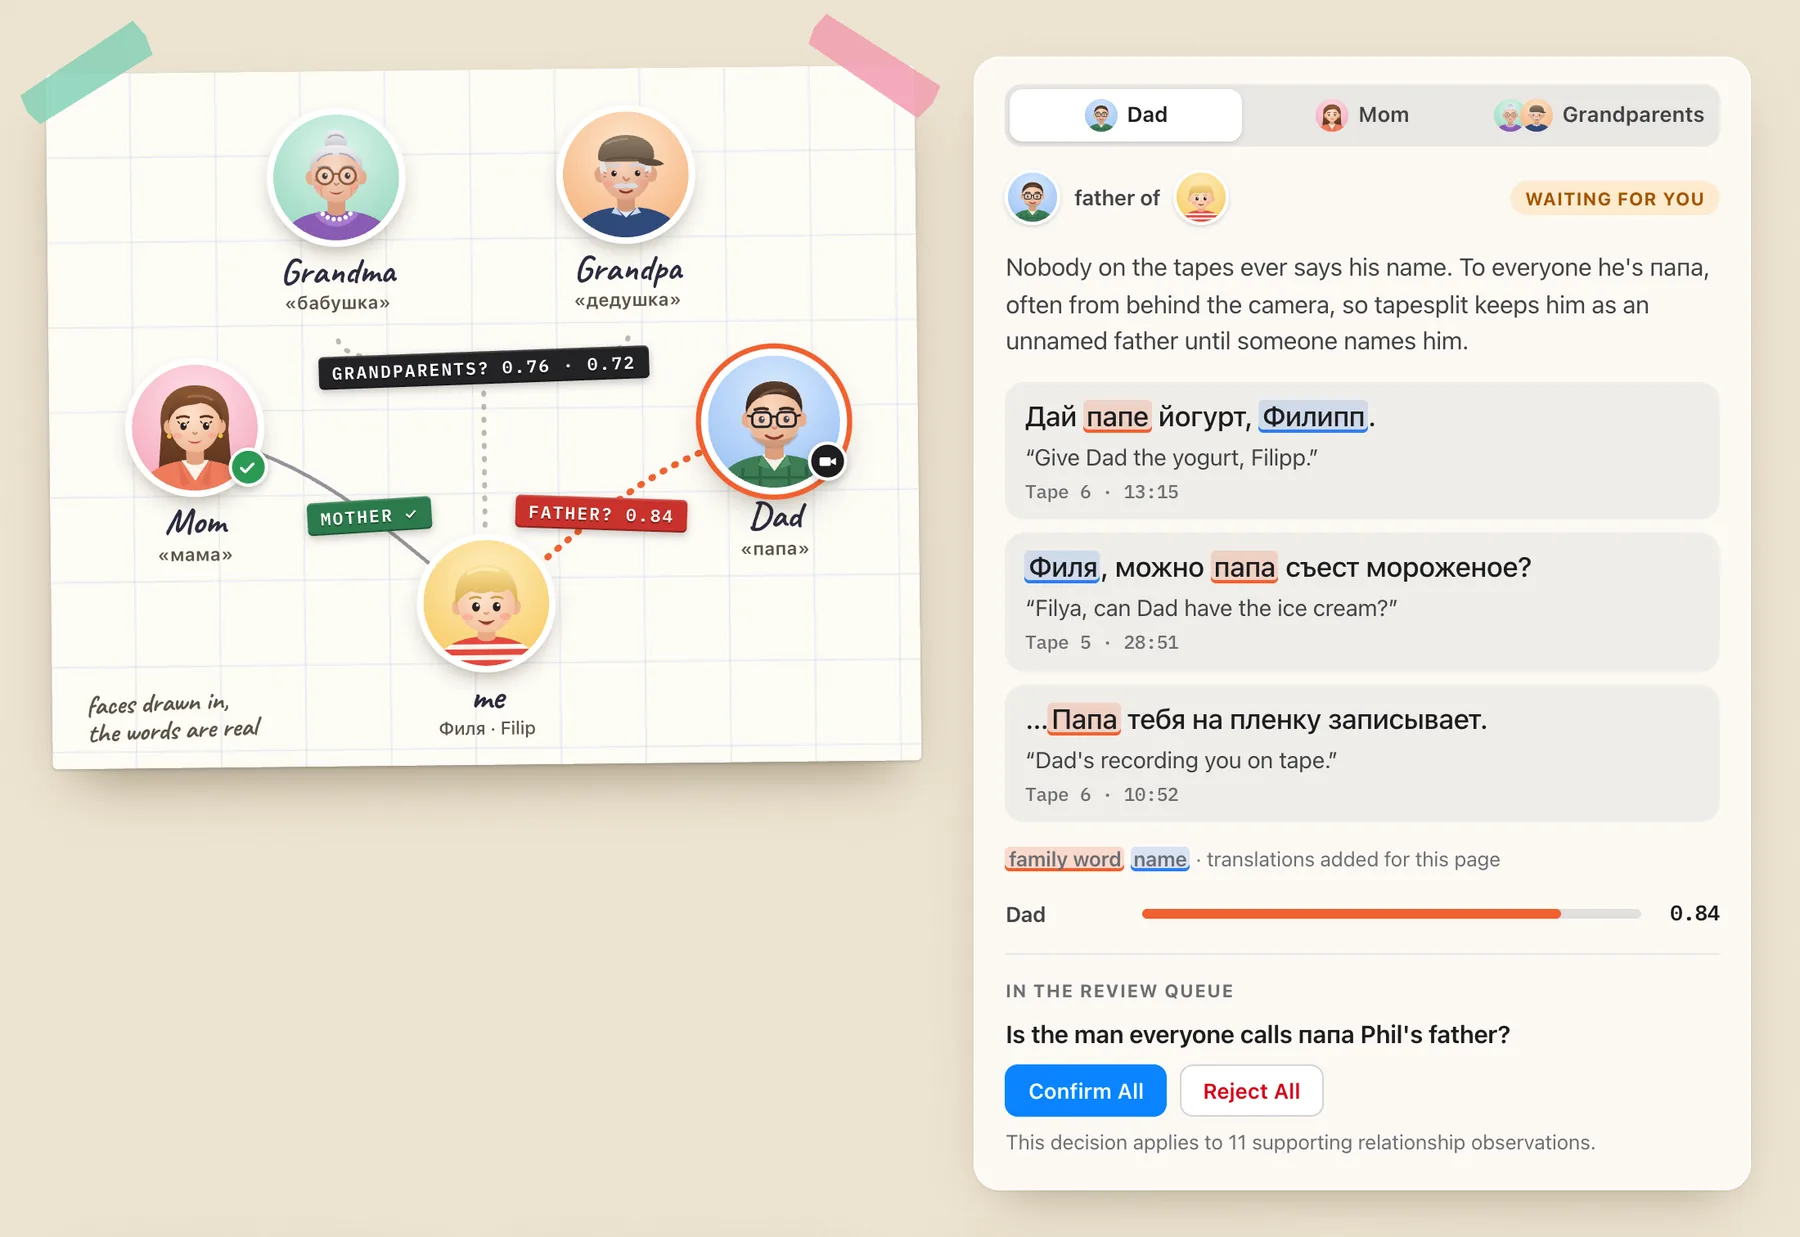
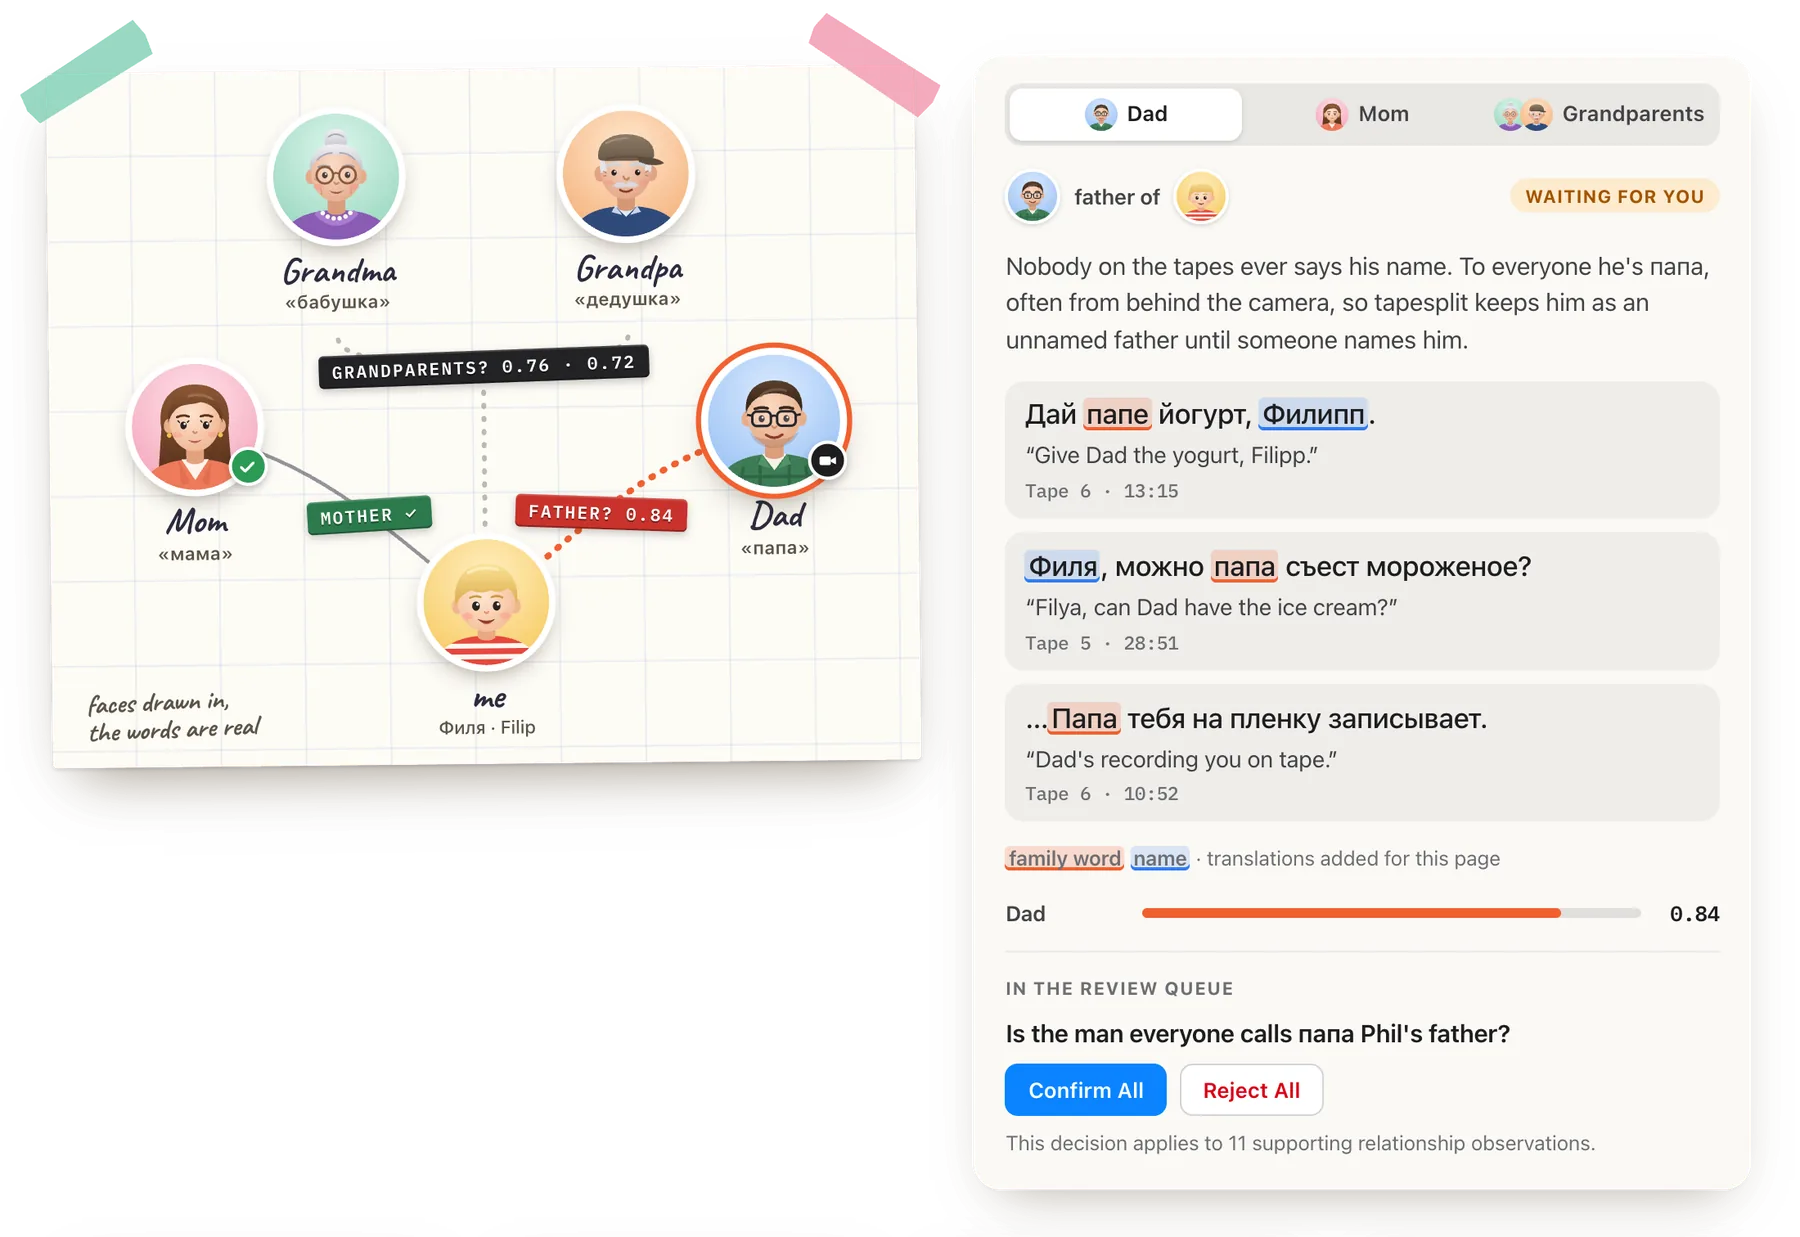
Give the README images transparent backgrounds
Every image in the README now has an alpha background instead of kraft paper,
so it sits cleanly on GitHub's light and dark themes. Cards are opaque, and
loose handwriting that would vanish on a dark page is hidden or set on a
paper label. The four polaroid clips are animated WebP with real alpha in
place of GIFs, which only have on/off transparency. The README also gets the
In/Out image, the new post title, Edison's real name and no French note.

diff --git a/README.md b/README.md
@@ -10,7 +10,7 @@
   <a href="docs/"><b>Docs</b></a>
 </p>
 
-<p align="center"><b>Read the story:</b> <a href="https://tapesplit.org/">My little VHS digitization project that turned into a palantír for home video</a></p>
+<p align="center"><b>Read the story:</b> <a href="https://tapesplit.org/">My little VHS digitization project that turned into a family archive</a></p>
 
 <p align="center">
   <a href="https://github.com/bindeman/tapesplit/actions/workflows/ci.yml"><img alt="CI" src="https://github.com/bindeman/tapesplit/actions/workflows/ci.yml/badge.svg"></a>
@@ -21,7 +21,11 @@
 
 **tapesplit turns a box of digitized VHS and camcorder tapes into a family archive you can browse, search and trust.** It watches every hour of footage, splits each tape into moments, and works out when each moment happened, where, and who was there. Anything it isn't sure about waits in a review queue. It runs on your Mac; cloud models are optional and capped at a dollar amount you set.
 
-> Every picture on this page is a real frame from my family's tapes (1997–2007), labeled by tapesplit. Names other than mine are changed.
+<p align="center">
+  <img src="site/media/readme/how-inout.webp" alt="In: a box of VHS tapes with no labels. tapesplit watches every minute. Out: 279 moments, each titled and dated; a timeline from 1997 to 2007 with 99 moments dated to the day; 244 places on a map; and 101 people, with a family tree" width="100%">
+</p>
+
+> Every photo on this page is a real frame from my family's tapes (1997–2007), labeled by tapesplit; the faces in the family tree are drawn. People's names other than mine are changed.
 
 ## Why I made this
 
@@ -36,10 +40,10 @@ For a decade those tapes sat in the attic. Last year I started a project to digi
 ## From the tapes
 
 <p align="center">
-  <img src="site/media/readme/weather.gif" alt="Polaroid: a grinning boy in a rain hood on a windy beach. Label: Oregon coast, 2006" width="24%">
-  <img src="site/media/readme/lava.gif" alt="Polaroid: lava glowing where it meets the ocean at dusk. Label: Kīlauea, Hawaiʻi, 2006" width="24%">
-  <img src="site/media/readme/bears.gif" alt="Polaroid: brown bears fishing along a river. Label: Katmai, Alaska, 2002" width="24%">
-  <img src="site/media/readme/stbasil.gif" alt="Polaroid: Saint Basil's Cathedral seen from a river boat. Label: Moscow, 2007" width="24%">
+  <img src="site/media/readme/weather.webp" alt="Polaroid: a grinning boy in a rain hood on a windy beach. Label: Oregon coast, 2006" width="24%">
+  <img src="site/media/readme/lava.webp" alt="Polaroid: lava glowing where it meets the ocean at dusk. Label: Kīlauea, Hawaiʻi, 2006" width="24%">
+  <img src="site/media/readme/bears.webp" alt="Polaroid: brown bears fishing along a river. Label: Katmai, Alaska, 2002" width="24%">
+  <img src="site/media/readme/stbasil.webp" alt="Polaroid: Saint Basil's Cathedral seen from a river boat. Label: Moscow, 2007" width="24%">
 </p>
 
 The captions are scrapbook notes. The label tape is tapesplit's: where each trip was and what year, worked out from what's on screen, what's said on tape and the camcorder's date stamp.
@@ -66,10 +70,10 @@ Tape 18 has no label either. An hour in, the camcorder's clock reads SEP 7 2005 
   <img src="site/media/readme/how-when.webp" alt="Two polaroids with yellow boxes where text was read: the date stamp SEP 7 2005 and a whiteboard saying Today is Wednesday, September 7, 2005, next to cards with the dates tapesplit took from them" width="100%">
 </p>
 
-**Where.** My dad says we're back in Eugene, and the sign over the doors says Maplewood School. A search for that name alone picked a school in Florida, with others in Utah and Arizona. None of those is anywhere we lived, so tapesplit flagged the match and searched again near home, and a separate verifier agreed the school belongs in Eugene.
+**Where.** My dad says we're back in Eugene, and the video model reads Edison School off the sign above the entrance. A search for that name alone picked a school in Florida, with others in Utah and Arizona. None of those is anywhere we lived, so tapesplit flagged the match and searched again near home, and a separate verifier agreed the school belongs in Eugene.
 
 <p align="center">
-  <img src="site/media/readme/how-where.webp" alt="Clue cards (two lines said on tape, two signs read off the screen) next to a map of the United States: the first search's Maplewood Schools in Florida, Utah and Arizona are grayed out, and the one found near home in Eugene, Oregon is kept, with confidence rising from 0.45 to 0.99" width="100%">
+  <img src="site/media/readme/how-where.webp" alt="Clue cards (two lines said on tape, two signs read off the screen) next to a map of the United States: the first search's Edison Schools in Florida, Utah and Arizona are grayed out, and the one found near home in Eugene, Oregon is kept, with confidence rising from 0.45 to 0.99" width="100%">
 </p>
 
 **Who.** Two voices, separated and lined up with their words: my dad asks me, in Russian, what I think of my first day, and I tell him I'm not scared. tapesplit suggests who's who; the names are mine.
@@ -99,7 +103,7 @@ Tape 18 has no label either. An hour in, the camcorder's clock reads SEP 7 2005 
 
 Tapes get reused and recorded over, so tape order isn't time order: Tape 3 jumps from 2003 to 2006. tapesplit dates each moment on its own. 99 of the 279 got an exact day: 29 confirmed by a camcorder stamp that Apple Vision read, and 75 from what the video model saw or heard in the moment. The rest borrow a month or year from the moments around them.
 
-<sub>The school and teacher names are changed, and the faces in the family tree are illustrated stand-ins. The English under the Russian lines was added for this page, except the Journal's, which is tapesplit's own. On the website you can switch those translations to French.</sub>
+<sub>The teacher's name is changed, and the faces in the family tree are illustrated stand-ins. The English under the Russian lines was added for this page, except the Journal's, which is tapesplit's own.</sub>
 
 ## What you get
 
